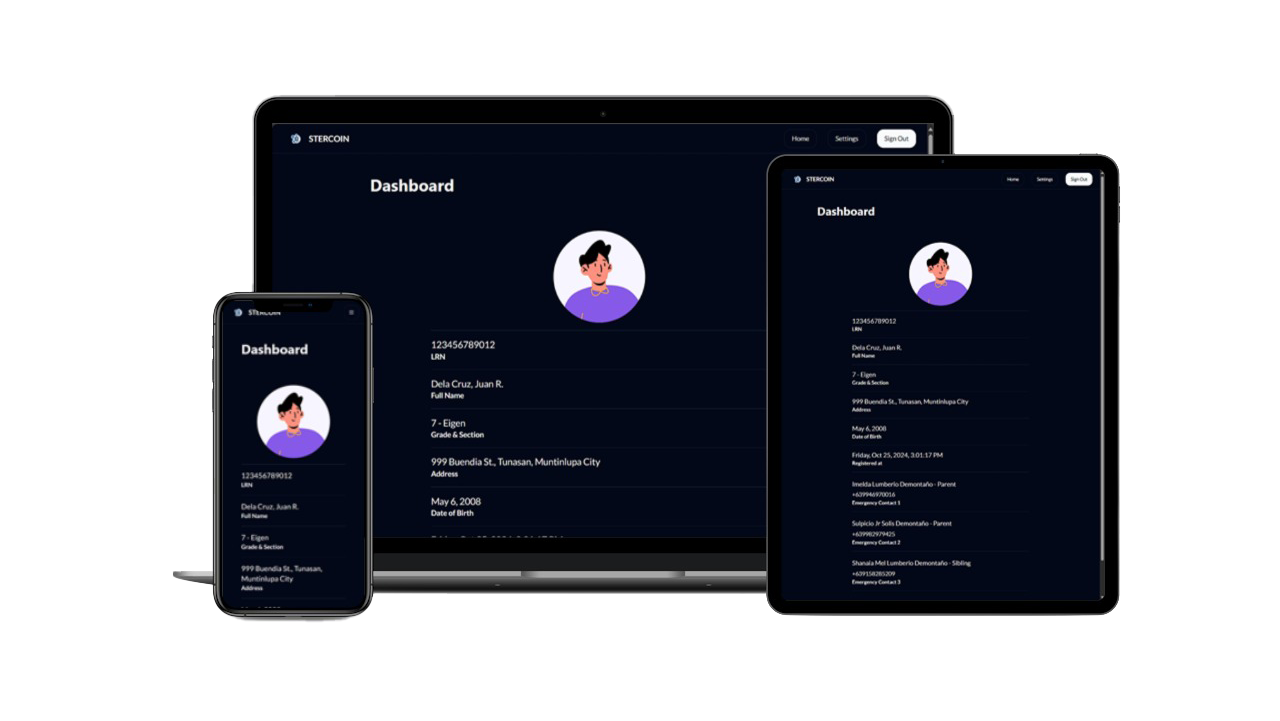
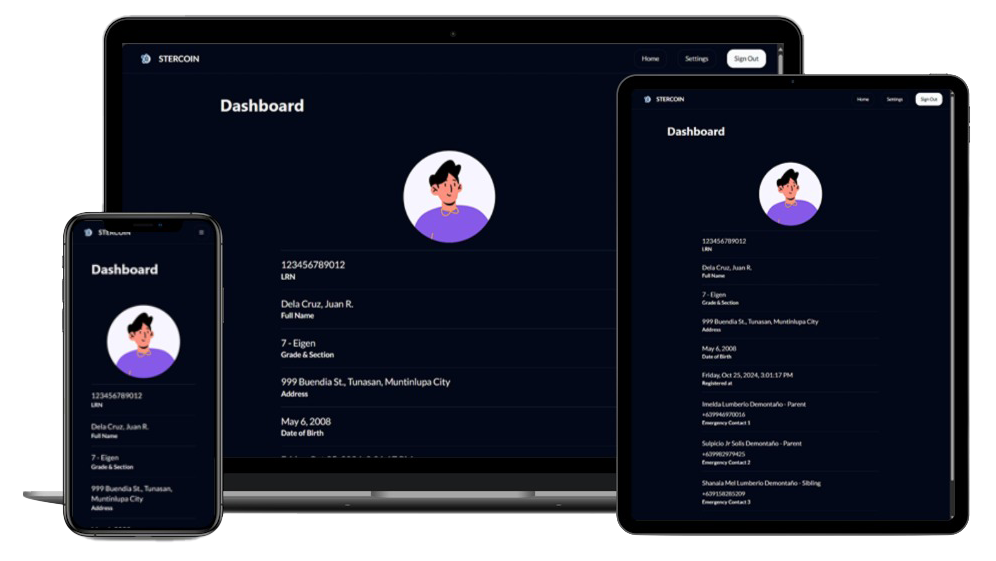
New design

diff --git a/app/page.tsx b/app/page.tsx
@@ -5,39 +5,38 @@ import React, { ReactNode } from "react";
 import Image from "next/image";
 import Link from "next/link";
 import Mockup from "../public/mockup.png";
+import Logo from "../public/logo.png";
 
 export default function Home() {
   return (
     <>
-      <main className="flex-grow">
-        <section className="bg-gradient-to-r animate-change-color bg-[length:150%_150%] from-emerald-600 to-green-600 text-white py-24 md:py-32">
-          <div className="container mx-auto px-4 lg:px-24 xl:px-40">
+      <main className="grow">
+        <section className="animate-change-color bg-gradient-to-r from-emerald-600 to-green-600 bg-[length:150%_150%] py-24 text-white md:py-32">
+          <div className="container mx-auto px-4 lg:px-24 xl:px-36">
             <div className="flex flex-col items-center md:flex-row md:items-start md:justify-between">
-              <div className="md:order-2 md:w-1/2 flex justify-center md:justify-end mb-8 md:my-auto">
-                <div className="relative w-80 h-80 md:w-96 md:h-52 lg:w-[50rem] lg:h-[20rem]">
+              <div className="mb-8 flex justify-center md:order-2 md:my-auto md:w-2/3 md:justify-end">
+                <div className="relative size-80 drop-shadow-xl transition-all hover:drop-shadow-2xl md:h-52 md:w-96 lg:h-96 lg:w-[60rem]">
                   <Image
                     src={Mockup}
                     alt="STERCOIN Mockup"
-                    className="rounded-full hidden md:block my-auto"
+                    className="hiddenFi my-auto md:block"
                   />
                   <Image
-                    src="/logo.png"
-                    width={400}
-                    height={400}
+                    src={Logo}
                     alt="STERCOIN Logo"
                     className="rounded-full md:hidden"
                   />
                 </div>
               </div>
-              <div className="md:order-1 md:w-1/2 text-center md:text-left my-auto">
-                <h1 className="text-5xl md:text-6xl lg:text-7xl font-bold mb-6 leading-tight">
+              <div className="my-auto text-center md:order-1 md:w-1/2 md:text-left">
+                <h1 className="mb-6 text-5xl font-bold leading-tight md:text-6xl lg:text-7xl">
                   Welcome to <span className="font-extrabold">STERCOIN</span>
                 </h1>
-                <p className="text-xl md:text-2xl mb-8 max-w-lg mx-auto md:mx-0">
+                <p className="mx-auto mb-8 max-w-lg text-xl md:mx-0 md:text-2xl">
                   Student Emergency Release Contact Information System -
                   Ensuring safety through efficient information management.
                 </p>
-                <div className="flex flex-col sm:flex-row justify-center md:justify-start space-y-4 sm:space-y-0 sm:space-x-4">
+                <div className="flex flex-col justify-center space-y-4 sm:flex-row sm:space-x-4 sm:space-y-0 md:justify-start">
                   <Button size="lg" variant="outline" asChild>
                     <Link href="/auth/login">Get Started</Link>
                   </Button>
@@ -46,24 +45,24 @@ export default function Home() {
             </div>
           </div>
         </section>
-        <section id="features" className="py-20 bg-secondary">
+        <section id="features" className="bg-secondary py-20">
           <div className="container mx-auto px-4">
-            <h2 className="text-3xl font-bold text-center mb-12">
+            <h2 className="mb-12 text-center text-3xl font-bold">
               Key Features
             </h2>
-            <div className="grid md:grid-cols-3 gap-8">
+            <div className="grid gap-8 md:grid-cols-3">
               <FeatureCard
-                icon={<BookOpen className="h-10 w-10 text-primary" />}
+                icon={<BookOpen className="size-10 text-primary" />}
                 title="Easy Information Access"
                 description="Quickly retrieve student emergency contact details when needed."
               />
               <FeatureCard
-                icon={<Shield className="h-10 w-10 text-primary" />}
+                icon={<Shield className="size-10 text-primary" />}
                 title="Secure Data Storage"
                 description="Keep sensitive information safe with our robust security measures."
               />
               <FeatureCard
-                icon={<Users className="h-10 w-10 text-primary" />}
+                icon={<Users className="size-10 text-primary" />}
                 title="User-Friendly Interface"
                 description="Intuitive design for easy navigation and information management."
               />
@@ -72,26 +71,26 @@ export default function Home() {
         </section>
         <section id="about" className="py-20">
           <div className="container mx-auto px-4 text-center">
-            <h2 className="text-3xl font-bold mb-6">About STERCOIN</h2>
-            <p className="text-xl max-w-3xl mx-auto">
+            <h2 className="mb-6 text-3xl font-bold">About STERCOIN</h2>
+            <p className="mx-auto max-w-3xl text-xl">
               STERCOIN is a web application designed to store and manage every
-              student's emergency contact information. It provides quick and
-              easy access to crucial details in case of disasters or emergencies
-              that may occur to MunScians at school.
+              student&apos;s emergency contact information. It provides quick
+              and easy access to crucial details in case of disasters or
+              emergencies that may occur to MunScians at school.
             </p>
           </div>
         </section>
-        <section className="py-20 bg-muted">
+        <section className="bg-muted py-20">
           <div className="container mx-auto px-4">
-            <h2 className="text-3xl font-bold text-center mb-12">
+            <h2 className="mb-12 text-center text-3xl font-bold">
               How It Works
             </h2>
-            <div className="grid md:grid-cols-3 gap-8 text-center">
+            <div className="grid gap-8 text-center md:grid-cols-3">
               <div>
-                <div className="bg-primary text-primary-foreground rounded-full w-12 h-12 flex items-center justify-center mx-auto mb-4">
+                <div className="mx-auto mb-4 flex size-12 items-center justify-center rounded-full bg-primary text-primary-foreground">
                   1
                 </div>
-                <h3 className="text-xl font-semibold mb-2">
+                <h3 className="mb-2 text-xl font-semibold">
                   Input Information
                 </h3>
                 <p>
@@ -100,20 +99,20 @@ export default function Home() {
                 </p>
               </div>
               <div>
-                <div className="bg-primary text-primary-foreground rounded-full w-12 h-12 flex items-center justify-center mx-auto mb-4">
+                <div className="mx-auto mb-4 flex size-12 items-center justify-center rounded-full bg-primary text-primary-foreground">
                   2
                 </div>
-                <h3 className="text-xl font-semibold mb-2">Secure Storage</h3>
+                <h3 className="mb-2 text-xl font-semibold">Secure Storage</h3>
                 <p>
                   All information is encrypted and stored securely in our
                   state-of-the-art database.
                 </p>
               </div>
               <div>
-                <div className="bg-primary text-primary-foreground rounded-full w-12 h-12 flex items-center justify-center mx-auto mb-4">
+                <div className="mx-auto mb-4 flex size-12 items-center justify-center rounded-full bg-primary text-primary-foreground">
                   3
                 </div>
-                <h3 className="text-xl font-semibold mb-2">Quick Access</h3>
+                <h3 className="mb-2 text-xl font-semibold">Quick Access</h3>
                 <p>
                   In case of emergency, authorized personnel can quickly
                   retrieve the necessary contact information.
@@ -138,7 +137,7 @@ function FeatureCard({ icon, title, description }: FeatureCardProps) {
     <Card>
       <CardContent className="p-6 text-center">
         <div className="mb-4 flex justify-center">{icon}</div>
-        <h3 className="text-xl font-semibold mb-2">{title}</h3>
+        <h3 className="mb-2 text-xl font-semibold">{title}</h3>
         <p className="text-muted-foreground">{description}</p>
       </CardContent>
     </Card>

diff --git a/app/auth/login/page.tsx b/app/auth/login/page.tsx
@@ -33,7 +33,7 @@ export default async function Dashboard() {
                   href="/auth/register"
                   className="text-sm text-foreground hover:underline"
                 >
-                  Don't have an account yet?
+                  Don&apos;t have an account yet?
                 </Link>
               </CardDescription>
             </CardHeader>
